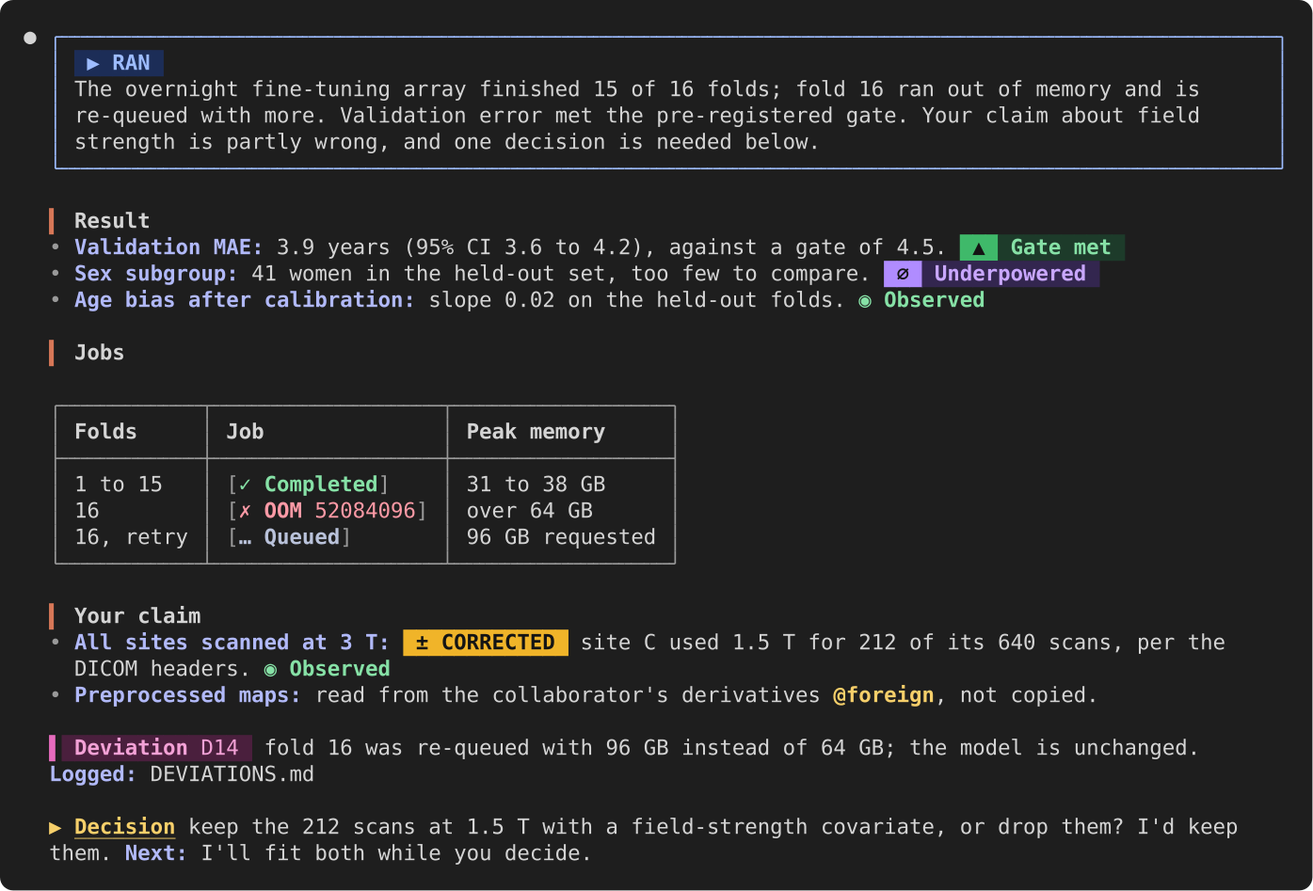
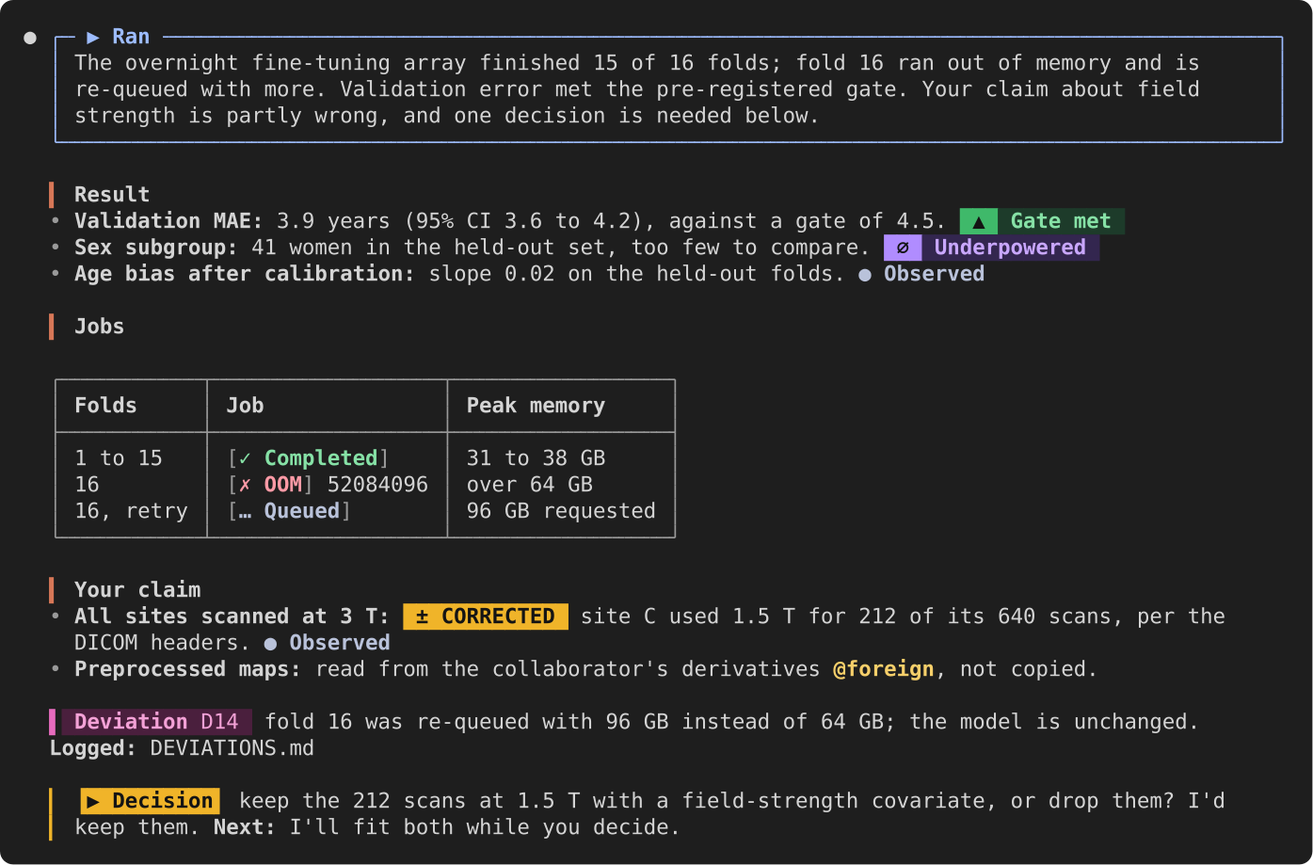
Make the ask easy to find; quieter evidence; titled brief card
From an independent design review of the renders:
- An ask (Needs you, Decision) is the one filled amber pill, and a
  paragraph that opens with one gets an amber bar beside every line.
  It was underlined text, which read like a link.
- Evidence tags are neutral annotations whose mark shows the grade;
  only Unverified stays amber. Green 'Observed' on a failure read as
  a success.
- Bold is plain by default, so color only carries meaning.
- The brief card's kind of work sits in its top border.
- Blockquotes get a dim bar on every line; multi-line quotes are one
  block.
- Agent messages wrap instead of cutting job ids, show ids as code,
  and keep the agent's color off the outcome hues.
- Job ids sit outside the state brackets; failed jobs show a cross in
  nerd-font mode; a trailing tag no longer wraps onto its own line.

Changed region(s): [[0.0308, 0.0305, 0.9556, 0.6398], [0.0308, 0.6703, 0.9556, 0.975], [0.6165, 0.7008, 0.9556, 0.7312]]

diff --git a/hooks/emphasis.ts b/hooks/emphasis.ts
@@ -22,7 +22,8 @@ export type Block =
   | { k: 'para'; runs: Run[] }
   | { k: 'item'; indent: number; marker: string; runs: Run[] }
   | { k: 'quote'; runs: Run[] }
-  | { k: 'brief'; mode: Run[]; border: string; runs: Run[] }
+  | { k: 'brief'; title: Run[]; border: string; runs: Run[] }
+  | { k: 'ask'; bar: string; runs: Run[] }
   | { k: 'blank' }
   | { k: 'lines'; lines: Run[][] }
 
@@ -105,9 +106,9 @@ export const NERD_ICONS: Record<string, string> = {
   Done: '', Passed: '', 'Handed over': '', Fixed: '', Recommended: '', Failed: '',
   Blocked: '', Partial: '', Skipped: '', 'At risk': '',
   'Needs you': '', Decision: '', Deviation: '',
-  Submitted: '', Queued: '', Running: '', Cancelled: '', Completed: '', OOM: '', 'Killed 143': '',
+  Submitted: '', Queued: '', Running: '', Cancelled: '', Completed: '', OOM: '', 'Killed 143': '',
   Owned: '', Shared: '', Foreign: '',
-  Destructive: '', Irreversible: '', 'GPU quota': '',
+  Destructive: '', Irreversible: '', 'GPU quota': '',
 }
 
 /** The words the model is told to write, in the order the rules list them. */
@@ -118,10 +119,10 @@ export const WORDS: Record<string, Word> = {
   Changed: { family: 'mode', hue: 'green', glyph: '✎', meaning: 'I edited files, data or jobs' },
   Ran: { family: 'mode', hue: 'blue', glyph: '▶', meaning: 'I ran an analysis, test or job' },
   // Evidence: where a claim comes from.
-  Observed: { family: 'evidence', hue: 'green', glyph: '◉', meaning: 'checked on disk or in a run' },
-  Inferred: { family: 'evidence', hue: 'blue', glyph: '◐', meaning: 'reasoned from other evidence' },
+  Observed: { family: 'evidence', hue: 'grey', glyph: '●', meaning: 'checked on disk or in a run' },
+  Inferred: { family: 'evidence', hue: 'grey', glyph: '◐', meaning: 'reasoned from other evidence' },
   Unverified: { family: 'evidence', hue: 'amber', glyph: '○', meaning: 'not checked' },
-  Cited: { family: 'evidence', hue: 'violet', glyph: '§', meaning: 'taken from a paper or doc, not checked here' },
+  Cited: { family: 'evidence', hue: 'grey', glyph: '§', meaning: 'taken from a paper or doc, not checked here' },
   // Verdict on a claim the user made.
   Confirmed: { family: 'verdict', hue: 'green', glyph: '✓', meaning: 'the claim holds' },
   Corrected: { family: 'verdict', hue: 'amber', glyph: '±', meaning: 'the claim is partly wrong' },
@@ -152,7 +153,7 @@ export const WORDS: Record<string, Word> = {
   // Scheduler jobs.
   Submitted: { family: 'job', hue: 'grey', glyph: '↑', meaning: 'sent to the scheduler' },
   Queued: { family: 'job', hue: 'grey', glyph: '…', meaning: 'waiting in the queue' },
-  Running: { family: 'job', hue: 'cyan', glyph: '●', meaning: 'running' },
+  Running: { family: 'job', hue: 'cyan', glyph: '↻', meaning: 'running' },
   Completed: { family: 'job', hue: 'green', glyph: '✓', meaning: 'exit 0' },
   Cancelled: { family: 'job', hue: 'grey', glyph: '⊘', meaning: 'cancelled' },
   OOM: { family: 'job', hue: 'red', glyph: '✗', meaning: 'out of memory' },
@@ -191,6 +192,15 @@ export function readLabel(label: string): { word: string | undefined; detail: st
   const known = KNOWN.find(k => lower === k || (lower.startsWith(k) && /[ :]/.test(lower[k.length] ?? '')))
   if (!known) return { word: undefined, detail: '', text }
   return { word: KEYS.get(known), detail: text.slice(known.length), text }
+}
+
+/** The brief card's title, drawn over its top border: the mode's mark and word, in its color, no fill. */
+export function modeTitle(text: string, set: Settings): Run[] {
+  const { word } = readLabel(text)
+  const w = word ? WORDS[word] : undefined
+  if (!word || !w) return []
+  const icon = set.icons === 'none' ? '' : set.icons === 'nerd-font' ? (NERD_ICONS[word] ?? w.glyph) : w.glyph
+  return [{ s: nb(` ${icon ? icon + ' ' : ''}${word} `), color: swatches(set)[w.hue].text, bold: true }]
 }
 
 /** The color of a mode word, for the brief card's border; undefined for any other label. */
@@ -254,15 +264,21 @@ export function pillRuns(text: string, set: Settings): Run[] {
       return [{ s: '▐', color: h.wash }, ...label(icon, word, detail, fill), { s: '▌', color: h.wash }]
     }
     case 'ask': {
-      const runs = label('', word, detail, { color: h.text, underline: true })
-      return [{ s: nb(`${icon} `), color: h.text, bold: true }, ...runs]
+      // The one thing the reader must act on: the only filled amber pill.
+      const fill = { bg: h.solid, color: h.onSolid }
+      if (nerd) return [{ s: ROUND[0]!, color: h.solid }, ...label(icon, word, detail, fill), { s: ROUND[1]!, color: h.solid }]
+      return [{ s: '▐', color: h.solid }, ...label(icon, word, detail, fill), { s: '▌', color: h.solid }]
     }
     case 'flag': {
       const body = { bg: h.wash, color: h.onWash }
       return [{ s: '▌', color: h.solid }, ...pad(label(nerd ? icon : '', word, detail, body), body), ...(nerd ? [{ s: ROUND[1]!, color: h.wash }] : [])]
     }
-    case 'job':
-      return [{ s: '[', dim: true }, ...label(icon, word, detail, { color: h.text }), { s: ']', dim: true }]
+    case 'job': {
+      // A job id is a value to copy, not part of the state: it goes after the brackets.
+      const id = /^\s+\d{5,}$/.test(detail) ? detail : ''
+      const state = [{ s: '[', dim: true }, ...label(icon, word, id ? '' : detail, { color: h.text }), { s: ']', dim: true }]
+      return id ? [...state, { s: nb(id) }] : state
+    }
     case 'owner':
       return [{ s: nb(`${nerd ? icon + ' ' : ''}@${word.toLowerCase()}${detail}`), color: h.text, bold: true }]
     case 'hazard': {
@@ -325,7 +341,7 @@ export function parseInline(src: string, set: Settings, base: Run = { s: '' }, l
       if (close > i) {
         let code = src.slice(i + ticks.length, close)
         if (code.length > 2 && code.startsWith(' ') && code.endsWith(' ')) code = code.slice(1, -1)
-        push({ ...base, s: code, color: 'permission', bold: base.bold, bg: codeBg(set) })
+        push({ ...base, s: code, bold: base.bold, bg: codeBg(set) ?? undefined, ...(codeBg(set) ? {} : { color: 'permission' }) })
         i = close + ticks.length
         continue
       }
@@ -354,6 +370,7 @@ export function parseInline(src: string, set: Settings, base: Run = { s: '' }, l
     if (ch === '[') {
       const pill = PILL.exec(rest)
       if (pill && pill[1]!.trim()) {
+        if (buf.endsWith(' ')) buf = buf.slice(0, -1) + '\u00a0'
         flush()
         out.push(...pillRuns(pill[1]!, set))
         i += pill[0].length
@@ -491,7 +508,11 @@ export function parseBlocks(markdown: string, set: Settings): Block[] {
     const q = line.match(QUOTE)
     if (q) {
       close()
-      blocks.push({ k: 'quote', runs: parseInline(q[1]!, set, { s: '' }) })
+      // Consecutive quote lines are one quote, so its bar runs unbroken down the side.
+      const prev = blocks[blocks.length - 1]
+      const runs = parseInline(q[1]!, set, { s: '' })
+      if (prev?.k === 'quote') prev.runs.push({ s: '\n' }, ...runs)
+      else blocks.push({ k: 'quote', runs })
       continue
     }
     // Tree rows and lines that open with a bold label start their own line.
@@ -510,6 +531,10 @@ export function parseBlocks(markdown: string, set: Settings): Block[] {
       raw: body,
       make: raw => {
         if (blocks.length === 0 && firstRaw === undefined) firstRaw = raw
+        const opener = /^\[\[([^[\]\n]{1,32})\]\]/.exec(raw)
+        const openWord = opener ? readLabel(opener[1]!).word : undefined
+        if (!pad && openWord && WORDS[openWord]?.family === 'ask')
+          return { k: 'ask', bar: swatches(set).amber.solid, runs: parseInline(raw, set, { s: '' }, lead) }
         return { k: 'para', runs: [...(pad ? [{ s: pad }] : []), ...parseInline(raw, set, { s: '' }, lead)] }
       },
     }
@@ -529,7 +554,7 @@ export function parseBlocks(markdown: string, set: Settings): Block[] {
   if (lead && border && blocks[0]?.k === 'para') {
     blocks[0] = {
       k: 'brief',
-      mode: pillRuns(lead[1]!, set),
+      title: modeTitle(lead[1]!, set),
       border,
       runs: parseInline(firstRaw!.slice(lead[0].length), set, { s: '' }),
     }
@@ -539,11 +564,11 @@ export function parseBlocks(markdown: string, set: Settings): Block[] {
 
 const FAMILY_RULES: [Family, string][] = [
   ['mode', 'Kind of work. Opens the brief (see below); nowhere else'],
-  ['evidence', 'Where a claim comes from. Mark every factual claim about data, results or code whose source is not obvious'],
+  ['evidence', 'Where a claim comes from; drawn quietly, as an annotation. Mark every factual claim about data, results or code whose source is not obvious'],
   ['verdict', 'When the user states or asks you to confirm a claim, open the answer with one of these'],
   ['gate', 'Pre-registered pass/stop thresholds for an experiment and their outcomes. A miss starts an investigation of why, never a verdict on its own; Fold only after an independent review agrees'],
   ['status', 'State of a piece of work'],
-  ['ask', 'Something only the user can do or decide. Repeat each one in the last line of a long reply'],
+  ['ask', 'Something only the user can do or decide. Start its own paragraph with it, after a blank line, at the end of the reply; the display draws that paragraph with an amber bar. Repeat each one there in a long reply'],
   ['flag', 'Any fallback, compromise or change of plan the user was not told about beforehand. Follow it with **Logged:** and the path of the .md that records it'],
   ['job', 'Slurm job states; may carry the job id or counts, e.g. [[Completed 16/16]], [[OOM 52084096]]'],
   ['owner', 'Who owns data, derivatives, code or config you touched or propose to touch'],
@@ -564,7 +589,7 @@ These rules shape replies in this terminal. A display plugin draws \`[[Word]]\` 
 - **Brief first.** A reply that reports an investigation, an analysis, a run, a change, or proposes what to do next opens with a brief: one paragraph of one to three sentences that starts with a mode pill and says what was checked, done or proposed, the outcome, and anything the user must do. The display draws it as a card. Write the brief as plain sentences: no other pills and no bold inside it. The details follow after a blank line. Skip the brief for short answers, conceptual explanations, and manuscript text.
 - **Pills mark status, evidence and decisions only.** A pill is \`[[Word]]\` beside the thing it describes. Use exactly these words; a known word may carry short detail ([[Completed 16/16]], [[Deviation D75]]). Any other word is drawn as a dim tag.
 ${families}
-- **Same place every time.** Put a verdict right after the bold lead label it answers; put an evidence tag at the end of the claim it qualifies; start a line with an ask. At most two pills on a line, except a row of job states; when a reply would need more than about eight pills, put the items in a table with one column of pills.
+- **Same place every time.** Put a verdict right after the bold lead label it answers; put an evidence tag at the end of the claim it qualifies; start a paragraph with an ask. At most two pills on a line, except a row of job states; when a reply would need more than about eight pills, put the items in a table with one column of pills.
 - **Every attention pill carries its action.** After [[Unverified]], [[Gate missed]], [[Failed]], [[Blocked]], [[Needs you]], [[Decision]], [[Deviation]], a hazard or a failed job, give the one fact needed to act, introduced by a bold lead-in ending in a colon: ${ACTION_WORDS.map(w => `**${w}:**`).join(', ')}.
 - **Statistics stay in words and numbers.** Report effects with their CI or adjusted p in plain text; do not make significance into a pill. [[Underpowered]] is the exception.
 - **Bold lead labels, sparingly elsewhere.** Start a bullet that is about one subject with a bold lead label ending in a colon (**Cause:**); the display colors it. Inside sentences, bold at most one or two anchor terms per paragraph (the dataset, model, cohort or option the sentence turns on). Preferred lead labels: ${LEAD_LABELS.join(', ')}.
@@ -694,13 +719,13 @@ export function readAgentMessage(raw: string): { body: string; states: string[] 
   let marked = body
   // A colon right after a shouted word ("HANDED OVER:") is dropped: the pill already sets it apart.
   for (const [re, word] of SHOUTED) marked = marked.replace(new RegExp(re.source + ':?', 'g'), `[[${word}]]`)
-  marked = marked.replace(/\b([Jj]ob|[Aa]rray)\s+(\d{6,10})\b/g, '$1 **$2**')
+  marked = marked.replace(/\b([Jj]ob|[Aa]rray)\s+(\d{6,10})\b/g, '$1 `$2`')
   return { body: marked, states }
 }
 
 /** A stable hue per sender, so each agent keeps its color. */
 export function senderColor(name: string, set: Settings): string {
-  const hues: Hue[] = ['cyan', 'violet', 'green', 'amber', 'blue', 'magenta']
+  const hues: Hue[] = ['violet', 'blue', 'magenta', 'cyan']
   let h = 0
   for (const c of name) h = (h * 31 + c.charCodeAt(0)) >>> 0
   return swatches(set)[hues[h % hues.length]!].text

diff --git a/hooks/register.tsx b/hooks/register.tsx
@@ -21,7 +21,7 @@ export const register: Register = (on, options) => {
   const icons: IconSet = options.icons === 'nerd-font' || options.icons === 'none' ? options.icons : 'unicode'
   const settings: Settings = {
     icons,
-    boldColor: typeof options.boldColor === 'string' ? options.boldColor.trim() : 'suggestion',
+    boldColor: typeof options.boldColor === 'string' ? options.boldColor.trim() : '',
   }
 
   // Palette: a fixed choice, or (auto) one that follows the Claude Code theme. Light themes get the
@@ -65,15 +65,14 @@ export const register: Register = (on, options) => {
     return (
       <Box flexDirection="column">
         <Text>
-          <Text color={senderColor(name, set)} bold>
-            {'◆ ' + name}
-          </Text>
+          <Text color={senderColor(name, set)}>{'◆ '}</Text>
+          <Text bold>{name}</Text>
           {states.slice(0, 4).flatMap(w => [<Text> </Text>, ...paint(pillRuns(w, set))])}
         </Text>
         {head.map(l => (
           <Box flexDirection="row">
-            <Text dimColor>{'  │ '}</Text>
-            <Text wrap="truncate-end">{paint(parseInline(l, set))}</Text>
+            <Text color={senderColor(name, set)}>{'  │ '}</Text>
+            <Text>{paint(parseInline(l, set))}</Text>
           </Box>
         ))}
         {lines.length > head.length ? (
@@ -104,7 +103,10 @@ export const register: Register = (on, options) => {
         !('href' in p) ? one(p.run) : p.runs.map(x => x.s).join('') === p.href ? <Link href={p.href} /> : <Link href={p.href}>{p.runs.map(one)}</Link>,
       )
 
-    const body = blocks.map(b => {
+    // A quote or ask box brings its own empty row above and below, so the blank line next to it is dropped.
+    const boxed = (b?: { k: string }) => b?.k === 'quote' || b?.k === 'ask'
+    const shown = blocks.filter((b, i) => !(b.k === 'blank' && (boxed(blocks[i - 1]) || boxed(blocks[i + 1]))))
+    const body = shown.map(b => {
       switch (b.k) {
         case 'md':
           return <Markdown text={b.text} />
@@ -126,17 +128,29 @@ export const register: Register = (on, options) => {
             </Box>
           )
         case 'quote':
+          // A dim bar on every wrapped line; the orange bar is for headings only.
           return (
-            <Box flexDirection="row">
-              <Text color="claude">▎ </Text>
+            <Box borderStyle="quote" borderDimColor paddingLeft={1}>
+              <Text>{runs(b.runs)}</Text>
+            </Box>
+          )
+        case 'ask':
+          // The ask stands apart: an amber bar beside every line of it.
+          return (
+            <Box borderStyle="quote" borderColor={b.bar} paddingLeft={1}>
               <Text>{runs(b.runs)}</Text>
             </Box>
           )
         case 'brief':
+          // The kind of work sits in the card's top border, so the card spends no row on it.
           return (
-            <Box flexDirection="column" borderStyle="round" borderColor={b.border} paddingX={1}>
-              <Text>{runs(b.mode)}</Text>
-              <Text>{runs(b.runs)}</Text>
+            <Box flexDirection="column">
+              <Box flexDirection="column" borderStyle="round" borderColor={b.border} paddingX={1}>
+                <Text>{runs(b.runs)}</Text>
+              </Box>
+              <Box position="absolute" top={0} left={2}>
+                <Text>{runs(b.title)}</Text>
+              </Box>
             </Box>
           )
         case 'item':

diff --git a/reply-style.md b/reply-style.md
@@ -5,16 +5,16 @@ These rules shape replies in this terminal. A display plugin draws `[[Word]]` pi
 - **Brief first.** A reply that reports an investigation, an analysis, a run, a change, or proposes what to do next opens with a brief: one paragraph of one to three sentences that starts with a mode pill and says what was checked, done or proposed, the outcome, and anything the user must do. The display draws it as a card. Write the brief as plain sentences: no other pills and no bold inside it. The details follow after a blank line. Skip the brief for short answers, conceptual explanations, and manuscript text.
 - **Pills mark status, evidence and decisions only.** A pill is `[[Word]]` beside the thing it describes. Use exactly these words; a known word may carry short detail ([[Completed 16/16]], [[Deviation D75]]). Any other word is drawn as a dim tag.
   - **Mode.** Kind of work. Opens the brief (see below); nowhere else: [[Investigate]] (I looked into something and report what I found), [[Propose]] (I suggest what to do next), [[Changed]] (I edited files, data or jobs), [[Ran]] (I ran an analysis, test or job).
-  - **Evidence.** Where a claim comes from. Mark every factual claim about data, results or code whose source is not obvious: [[Observed]] (checked on disk or in a run), [[Inferred]] (reasoned from other evidence), [[Unverified]] (not checked), [[Cited]] (taken from a paper or doc, not checked here).
+  - **Evidence.** Where a claim comes from; drawn quietly, as an annotation. Mark every factual claim about data, results or code whose source is not obvious: [[Observed]] (checked on disk or in a run), [[Inferred]] (reasoned from other evidence), [[Unverified]] (not checked), [[Cited]] (taken from a paper or doc, not checked here).
   - **Verdict.** When the user states or asks you to confirm a claim, open the answer with one of these: [[Confirmed]] (the claim holds), [[Corrected]] (the claim is partly wrong), [[Contradicted]] (the claim is wrong).
   - **Gate.** Pre-registered pass/stop thresholds for an experiment and their outcomes. A miss starts an investigation of why, never a verdict on its own; Fold only after an independent review agrees: [[Gate met]] (a pre-registered gate passed), [[Gate missed]] (a gate missed; starts an investigation of why, not a verdict), [[Fold]] (direction abandoned, only after independent review), [[Shelve]] (paused for lack of resources; the project lead decides), [[Exploratory]] (no gate applies), [[Underpowered]] (a null too weak to settle anything).
   - **Status.** State of a piece of work: [[Done]] (finished), [[Passed]] (tests or checks passed), [[Handed over]] (work returned to the lead), [[Fixed]] (a defect repaired), [[Recommended]] (the option I pick), [[Failed]] (something broke), [[Blocked]] (cannot proceed), [[Partial]] (some of it done), [[Skipped]] (left out on purpose), [[At risk]] (could fail).
-  - **Ask.** Something only the user can do or decide. Repeat each one in the last line of a long reply: [[Needs you]] (an action only the user can take), [[Decision]] (a call only the user makes).
+  - **Ask.** Something only the user can do or decide. Start its own paragraph with it, after a blank line, at the end of the reply; the display draws that paragraph with an amber bar. Repeat each one there in a long reply: [[Needs you]] (an action only the user can take), [[Decision]] (a call only the user makes).
   - **Flag.** Any fallback, compromise or change of plan the user was not told about beforehand. Follow it with **Logged:** and the path of the .md that records it: [[Deviation]] (an undisclosed fallback or compromise).
   - **Job.** Slurm job states; may carry the job id or counts, e.g. [[Completed 16/16]], [[OOM 52084096]]: [[Submitted]] (sent to the scheduler), [[Queued]] (waiting in the queue), [[Running]] (running), [[Completed]] (exit 0), [[Cancelled]] (cancelled), [[OOM]] (out of memory), [[Killed 143]] (SIGTERM, usually the time limit).
   - **Owner.** Who owns data, derivatives, code or config you touched or propose to touch: [[Owned]] (made by this task), [[Shared]] (lab-shared storage others use), [[Foreign]] (someone else's, such as another person's derivatives).
   - **Hazard.** Consequences, stated before the action is taken, with what is lost or spent: [[Destructive]] (deletes or overwrites), [[Irreversible]] (cannot be undone), [[GPU quota]] (spends GPU allocation).
-- **Same place every time.** Put a verdict right after the bold lead label it answers; put an evidence tag at the end of the claim it qualifies; start a line with an ask. At most two pills on a line, except a row of job states; when a reply would need more than about eight pills, put the items in a table with one column of pills.
+- **Same place every time.** Put a verdict right after the bold lead label it answers; put an evidence tag at the end of the claim it qualifies; start a paragraph with an ask. At most two pills on a line, except a row of job states; when a reply would need more than about eight pills, put the items in a table with one column of pills.
 - **Every attention pill carries its action.** After [[Unverified]], [[Gate missed]], [[Failed]], [[Blocked]], [[Needs you]], [[Decision]], [[Deviation]], a hazard or a failed job, give the one fact needed to act, introduced by a bold lead-in ending in a colon: **Check:**, **Do:**, **Next:**, **Unblock:**, **Left:**, **Run:**, **Guard:**, **Undo:**, **See:**, **Logged:**.
 - **Statistics stay in words and numbers.** Report effects with their CI or adjusted p in plain text; do not make significance into a pill. [[Underpowered]] is the exception.
 - **Bold lead labels, sparingly elsewhere.** Start a bullet that is about one subject with a bold lead label ending in a colon (**Cause:**); the display colors it. Inside sentences, bold at most one or two anchor terms per paragraph (the dataset, model, cohort or option the sentence turns on). Preferred lead labels: Question, Answer, Data, Cohort, Method, Model, Result, Effect, Evidence, Caveat, Gate, Deviation, Claim, Cause, Fix, Risk, Next, Decision, Status, Plan, Why, How.

diff --git a/README.md b/README.md
@@ -4,7 +4,7 @@ A Claude Code plugin that makes replies about research work easy to scan. Claude
 
 ![A reply about an overnight fine-tuning run: a brief card, a gate that was met, a table of job states, a corrected claim, a deviation flag and a decision](docs/screenshot.png)
 
-The screenshot uses `icons: nerd-font`. The default, which needs no special font, looks like [this](docs/screenshot-unicode.png).
+The screenshot uses `icons: nerd-font`. The default, which needs no special font, looks like [this](docs/screenshot-unicode.png); on a light theme, like [this](docs/screenshot-light.png).
 
 The plugin changes only what the terminal draws. The stored conversation, copied text and exports keep plain Markdown. It calls no model and costs nothing to run.
 
@@ -43,11 +43,11 @@ Each family of markers has its own shape, so you can tell what kind of marker it
 
 | Family | Words | Shape |
 |---|---|---|
-| Evidence | Observed, Inferred, Unverified, Cited | colored word with a mark, no background |
+| Evidence | Observed, Inferred, Unverified, Cited | quiet annotation; the mark shows the grade (● observed, ◐ inferred, ○ unverified); only Unverified is colored |
 | Verdict on a claim you made | Confirmed, Corrected, Contradicted | solid stamp in capitals |
 | Gates (pre-registered pass/stop thresholds) | Gate met, Gate missed, Fold, Shelve, Exploratory, Underpowered | two-tone badge: a solid icon cell, then a soft label |
 | Work status | Done, Passed, Fixed, Recommended, Failed, Blocked, Partial, Skipped, At risk, Handed over | soft chip |
-| Asks | Needs you, Decision | amber arrow and underlined word |
+| Asks | Needs you, Decision | the one filled amber pill; a paragraph that opens with an ask gets an amber bar beside every line |
 | Disclosure | Deviation | magenta flag |
 | Jobs (Slurm or any scheduler) | Submitted, Queued, Running, Completed, Cancelled, OOM, Killed 143 | `[● Running]`, like a log line |
 | Ownership | Owned, Shared, Foreign | `@foreign` handle |
@@ -58,11 +58,11 @@ A word may carry detail, drawn in regular weight after the bold word: `[[Complet
 
 Also:
 
-- **Brief card.** A reply that opens with a kind-of-work marker has its first paragraph drawn inside a bordered card. The details follow below it.
+- **Brief card.** A reply that opens with a kind-of-work marker has its first paragraph drawn inside a bordered card, with the kind of work in the card's top border. The details follow below it.
 - **Tables.** A table that contains markers is drawn by the plugin, so the markers inside it are colored. A table wider than the window is left to Claude Code's own renderer.
 - **Messages from other agents.** Messages from teammates, subagents and other sessions, and background-task notifications, get a colored sender line. Status words in the message (HANDED OVER, PASSED, FAILED, COMPLETED, RUNNING, OOM) become markers, job ids are bold, and only the first three lines are shown (ctrl+o shows the full message).
 - **Links stay links.** `[label](https://…)`, `<https://…>` and bare `https://` addresses are drawn as clickable hyperlinks, as Claude Code draws them. On a terminal without hyperlink support, the address is printed after the label.
-- **Text.** Bold lead labels such as **Cause:** are colored; bold inside a sentence keeps the text color, so it is not mistaken for a link. `##` headings get an accent bar, blockquotes are drawn at full brightness (for manuscript text you will copy), `✓` / `✗` / `→` are colored, and `├──` / `└──` tree lines are dimmed.
+- **Text.** Color is kept for meaning: bold is plain bold (set `boldColor` to color lead labels such as **Cause:**), inline code is set apart by a tinted background, and links are blue. `##` headings get an accent bar; blockquotes get a dim bar on every line and stay at full brightness (for manuscript text you will copy); `✓` / `✗` / `→` are colored, and `├──` / `└──` tree lines are dimmed.
 - **Colors follow your theme.** On a light Claude Code theme the plugin switches to light colors. On the colorblind (daltonized) and ANSI themes it uses the theme's own colors, so markers stay distinguishable in the palette you chose.
 
 ## Options
@@ -73,7 +73,7 @@ Set these in Claude Code's config menu (`/config`, under the plugin's name), or 
 |---|---|---|
 | `icons` | `unicode` (marks any font draws), `nerd-font` (Nerd Font icons; rounded, arrow and slanted chip ends), `none` | `unicode` |
 | `palette` | `auto` (follow the Claude Code theme), `dark`, `light`, `theme` (Claude Code's theme colors, solid chips) | `auto` |
-| `boldColor` | color of bold lead labels: a theme key such as `suggestion`, a color name or hex; empty keeps the text color | `suggestion` |
+| `boldColor` | color of bold lead labels: a theme key such as `suggestion`, a color name or hex; empty keeps the text color | empty |
 
 ## Changing the words
 
